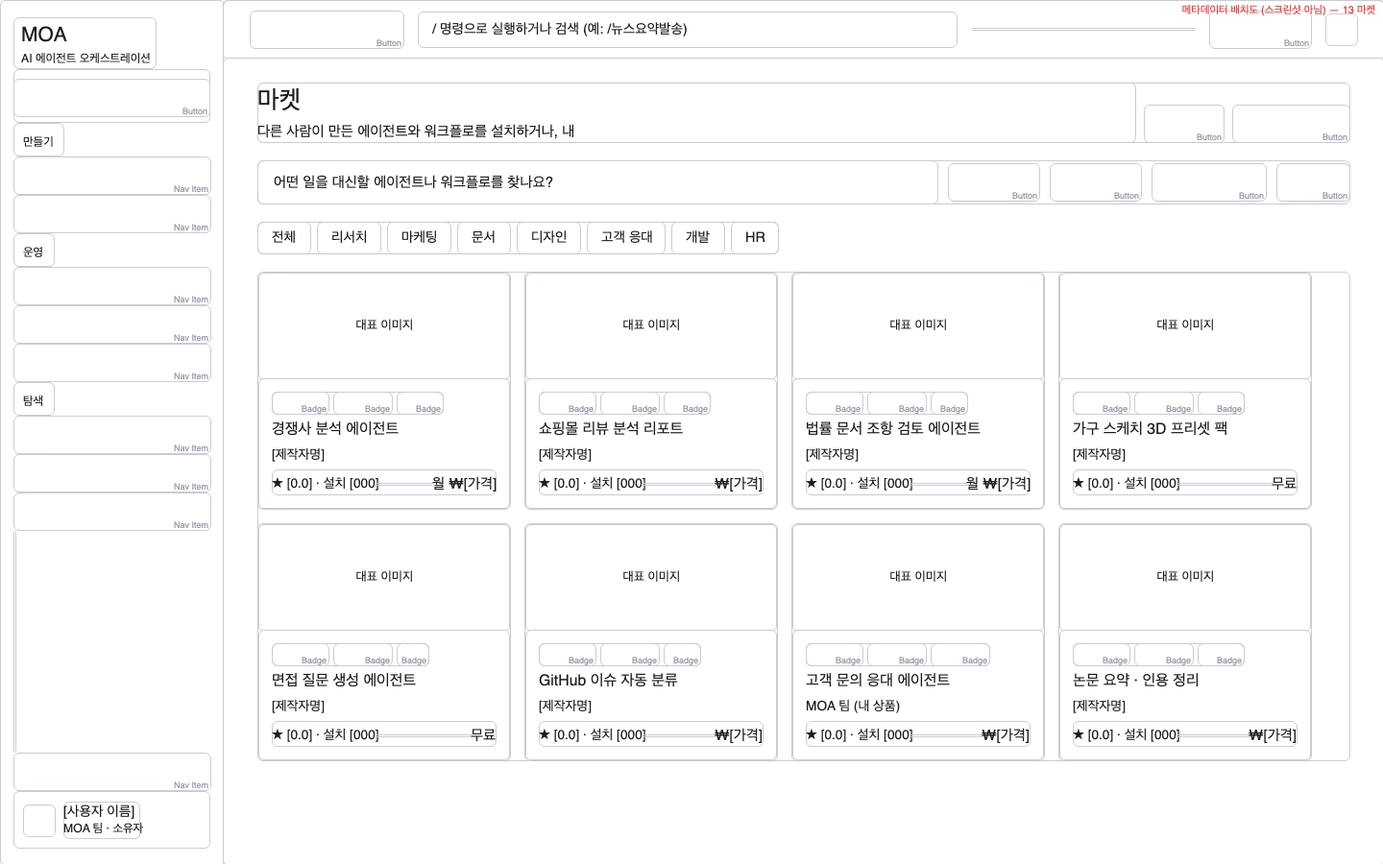
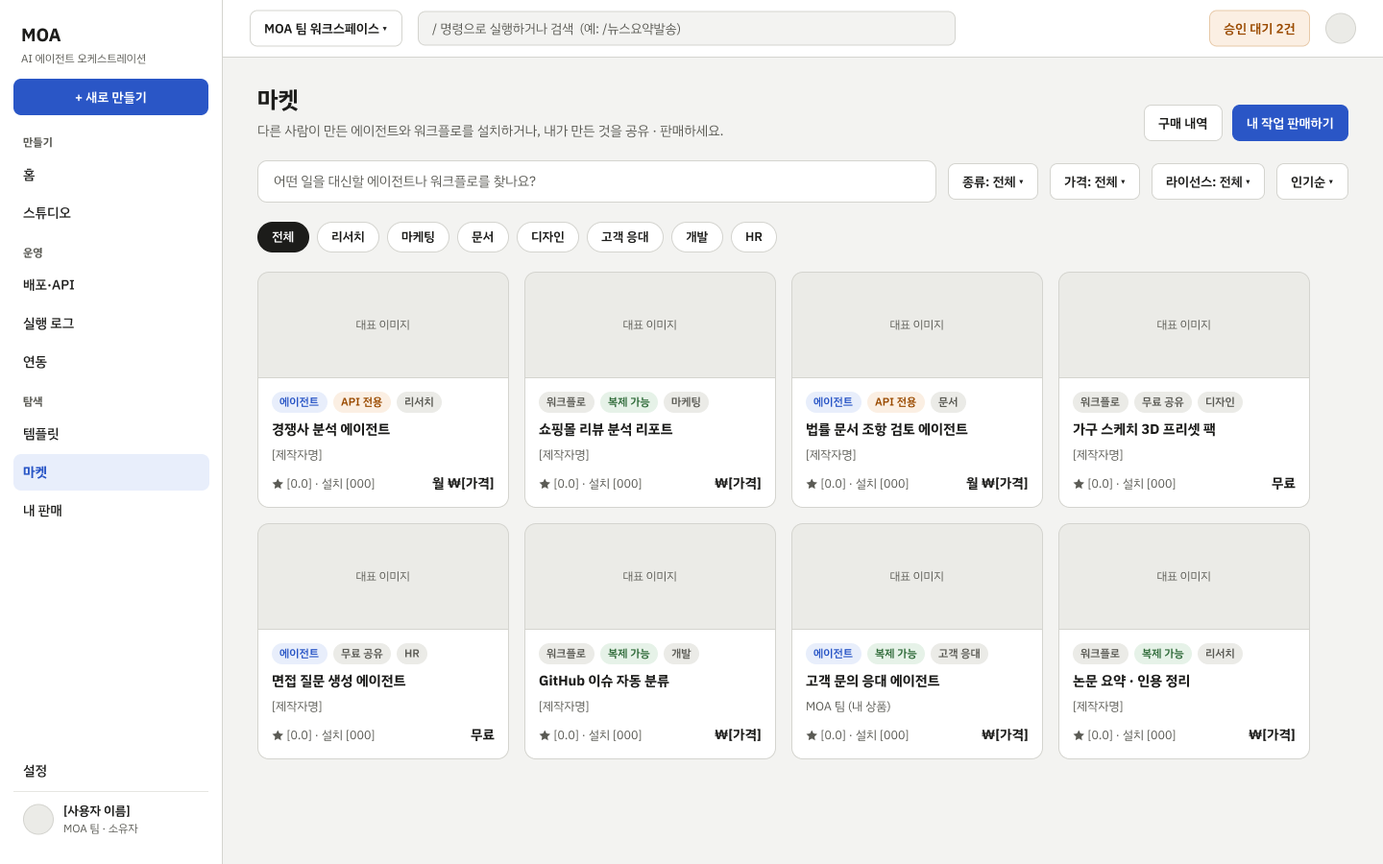
fix(market): Figma 13·15 스크린샷에 맞춰 마켓 목록·판매 등록 수정
호출 한도가 풀려 남은 프레임(13 마켓, 15 판매 등록, 컴포넌트)의
스크린샷을 받아 docs/figma 저장본을 채웠다. 그에 맞춰 고친 점:
- 마켓 헤더 버튼(구매 내역 · 내 작업 판매하기), 필터 4개(종류·가격·
  라이선스·정렬), 카드 배지 순서와 라이선스 배지(API 전용·복제 가능·
  무료 공유)
- 판매 등록 단계 표시(파란 원 ✓), 가격 라벨, 버튼 문구, 보안 점검 배지
  4종. 목 보안 검사에 개인정보(이메일·전화) 탐지(info) 추가
- 배지를 Figma 컴포넌트처럼 알약 모양으로
- 무료 공유 옵션 상자 배치 깨짐 수정

diff --git a/src/features/market/sell-steps.tsx b/src/features/market/sell-steps.tsx
@@ -82,7 +82,7 @@ export function StepInfo({ form, set, errors }: { form: ListingForm; set: Set; e
 }
 
 const SEV = { info: { icon: Info, cls: 'text-primary', v: 'blue' as const, t: '자동 정리' }, warn: { icon: AlertTriangle, cls: 'text-warning', v: 'orange' as const, t: '확인 권장' }, error: { icon: AlertCircle, cls: 'text-danger', v: 'red' as const, t: '등록 불가' } };
-const RULE: Record<string, string> = { credential_ref: '자격증명 참조', anthropic_key: 'Anthropic 키', openai_key: 'OpenAI 키', aws_key: 'AWS 키', jwt: 'JWT', pem: '개인 키(PEM)', slack_token: 'Slack 토큰', internal_url: '내부 주소', high_entropy: '비밀값 의심' };
+const RULE: Record<string, string> = { credential_ref: '자격증명 참조', anthropic_key: 'Anthropic 키', openai_key: 'OpenAI 키', aws_key: 'AWS 키', jwt: 'JWT', pem: '개인 키(PEM)', slack_token: 'Slack 토큰', internal_url: '내부 주소', high_entropy: '비밀값 의심', pii: '개인정보 의심' };
 
 export function StepScan({ findings, pending }: { findings: ScanFinding[] | null; pending: boolean }) {
   if (pending || !findings) return <p className="text-muted flex items-center gap-2 text-sm"><Loader2 className="size-4 animate-spin" aria-hidden /> 에이전트와 워크플로를 검사하는 중…</p>;
@@ -115,22 +115,22 @@ export function StepPrice({ form, set, errors, canApi }: { form: ListingForm; se
   const box = (on: boolean) => cn('rounded-lg border p-4', on && 'border-primary bg-primary-soft/40');
   return (
     <div className="space-y-3">
-      <label className={box(form.free)}>
-        <span className="flex items-center gap-2 font-semibold"><Checkbox checked={form.free} onCheckedChange={(v) => set({ free: v === true, sell_clone: v === true ? false : form.sell_clone })} /> 무료 공유</span>
-        <span className="text-muted mt-1 block text-sm">누구나 무료로 복제할 수 있습니다.</span>
-      </label>
+      <div className={box(form.free)}>
+        <label className="flex items-center gap-2 font-semibold"><Checkbox checked={form.free} onCheckedChange={(v) => set({ free: v === true, sell_clone: v === true ? false : form.sell_clone })} /> 무료 공유</label>
+        <p className="text-muted mt-1 text-sm">누구나 무료로 복제할 수 있습니다.</p>
+      </div>
       <div className={box(form.sell_clone)}>
         <label className="flex items-center gap-2 font-semibold"><Checkbox checked={form.sell_clone} disabled={form.free} onCheckedChange={(v) => set({ sell_clone: v === true })} /> 복제 라이선스 판매</label>
-        <p className="text-muted mt-1 text-sm">구매자가 에이전트와 연결된 워크플로를 복제해 수정할 수 있습니다. 재판매는 불가합니다.</p>
-        {form.sell_clone ? <div className="mt-3 max-w-60 space-y-1"><Label htmlFor="price-clone">가격(원)</Label><Input id="price-clone" type="number" min={0} step={1000} value={form.price_clone_krw} onChange={(e) => set({ price_clone_krw: Number(e.target.value) })} /></div> : null}
+        <p className="text-muted mt-1 text-sm">구매자가 에이전트와 연결된 워크플로를 복제해 수정할 수 있습니다. 재판매 금지.</p>
+        {form.sell_clone ? <div className="mt-3 max-w-60 space-y-1"><Label htmlFor="price-clone">가격 (1회, 원)</Label><Input id="price-clone" type="number" min={0} step={1000} value={form.price_clone_krw} onChange={(e) => set({ price_clone_krw: Number(e.target.value) })} /></div> : null}
       </div>
       <div className={box(form.sell_api)}>
         <label className="flex items-center gap-2 font-semibold"><Checkbox checked={form.sell_api} disabled={!canApi} onCheckedChange={(v) => set({ sell_api: v === true })} /> API 사용 구독</label>
-        <p className="text-muted mt-1 text-sm">내 환경에서 실행하고 구매자는 호출만 합니다. 모델 · 프롬프트는 공개되지 않습니다.{!canApi ? ' (먼저 이 에이전트를 배포해야 고를 수 있어요)' : ''}</p>
-        {form.sell_api ? <div className="mt-3 max-w-60 space-y-1"><Label htmlFor="price-api">월 가격(원)</Label><Input id="price-api" type="number" min={0} step={1000} value={form.price_api_month_krw} onChange={(e) => set({ price_api_month_krw: Number(e.target.value) })} /></div> : null}
+        <p className="text-muted mt-1 text-sm">내 환경에서 실행하고 구매자는 호출만 합니다. 모델 · 프롬프트 · 워크플로 구성은 공개되지 않습니다.{!canApi ? ' (먼저 이 에이전트를 배포해야 고를 수 있어요)' : ''}</p>
+        {form.sell_api ? <div className="mt-3 max-w-60 space-y-1"><Label htmlFor="price-api">월 구독료(원)</Label><Input id="price-api" type="number" min={0} step={1000} value={form.price_api_month_krw} onChange={(e) => set({ price_api_month_krw: Number(e.target.value) })} /></div> : null}
       </div>
       <Err m={errors.free} />
-      <p className="text-muted text-xs">플랫폼 수수료 20% · 정산은 매월 10일 · 7일 이내 실행 이력이 없으면 환불됩니다.</p>
+      <p className="text-muted text-xs">플랫폼 수수료 20% · 정산은 매월 10일 · 실행 비용은 API 구독일 때 판매자 부담</p>
     </div>
   );
 }

diff --git a/src/app/(app)/market/_components/market-view.tsx b/src/app/(app)/market/_components/market-view.tsx
@@ -19,7 +19,7 @@ import { Select, SelectContent, SelectItem, SelectTrigger, SelectValue } from '@
 import { CardGridSkeleton, EmptyState, ErrorState } from '@/shared/ui/states';
 
 export function MarketView() {
-  const [s, set] = useSearchState({ q: '', category: 'all', sort: 'popular', kind: 'all', license: 'all' });
+  const [s, set] = useSearchState({ q: '', category: 'all', sort: 'popular', kind: 'all', price: 'all', license: 'all' });
   const [q, setQ] = useState(s.q);
   const dq = useDebounced(q, 300);
   useEffect(() => {
@@ -27,7 +27,7 @@ export function MarketView() {
     // eslint-disable-next-line react-hooks/exhaustive-deps
   }, [dq]);
   const { can } = useCurrentWorkspace();
-  const p = useProducts({ q: s.q || undefined, category: s.category === 'all' ? undefined : s.category, sort: s.sort, kind: s.kind === 'all' ? undefined : (s.kind as 'agent' | 'workflow'), license: s.license === 'all' ? undefined : s.license });
+  const p = useProducts({ q: s.q || undefined, category: s.category === 'all' ? undefined : s.category, sort: s.sort, kind: s.kind === 'all' ? undefined : (s.kind as 'agent' | 'workflow'), license: s.license === 'all' ? undefined : s.license, price: s.price === 'all' ? undefined : (s.price as 'free' | 'paid') });
   const { ref, inView } = useInView<HTMLDivElement>();
   useEffect(() => {
     if (inView && p.hasNextPage && !p.isFetchingNextPage) void p.fetchNextPage();
@@ -47,9 +47,9 @@ export function MarketView() {
         description="다른 사람이 만든 에이전트와 워크플로를 설치하거나, 내 것을 공유·판매합니다."
         actions={
           <>
-            <Button variant="outline" asChild><Link href="/market/purchases">내 구매</Link></Button>
+            <Button variant="outline" asChild><Link href="/market/purchases">구매 내역</Link></Button>
             <Guarded allowed={can('market')} reason={copy.common.adminOnly}>
-              <Button asChild={can('market')}>{can('market') ? <Link href="/market/sell">+ 판매 등록</Link> : <span>+ 판매 등록</span>}</Button>
+              <Button asChild={can('market')}>{can('market') ? <Link href="/market/sell">내 작업 판매하기</Link> : <span>내 작업 판매하기</span>}</Button>
             </Guarded>
           </>
         }
@@ -60,7 +60,8 @@ export function MarketView() {
           <Input value={q} onChange={(e) => setQ(e.target.value)} placeholder="어떤 일을 대신할 에이전트나 워크플로를 찾나요?" aria-label="마켓 검색" className="h-10 pl-9" />
         </div>
         {sel(s.kind, (v) => set({ kind: v }), [['all', '종류: 전체'], ['agent', '에이전트'], ['workflow', '워크플로']], '종류')}
-        {sel(s.license, (v) => set({ license: v }), [['all', '가격: 전체'], ['free', '무료'], ['clone', '복제 판매'], ['api_sub', 'API 구독']], '가격')}
+        {sel(s.price, (v) => set({ price: v }), [['all', '가격: 전체'], ['free', '무료'], ['paid', '유료']], '가격')}
+        {sel(s.license, (v) => set({ license: v }), [['all', '라이선스: 전체'], ['clone', '복제 가능'], ['free_share', '무료 공유'], ['api_sub', 'API 전용']], '라이선스')}
         {sel(s.sort, (v) => set({ sort: v }), MARKET_SORTS.map((x) => [x.id, x.label]), '정렬')}
       </div>
       <ChipGroup label="카테고리" value={s.category} onChange={(v) => set({ category: v })} options={[{ value: 'all', label: '전체' }, ...MARKET_CATEGORIES.map((c) => ({ value: c.id as string, label: c.label }))]} />
@@ -69,7 +70,7 @@ export function MarketView() {
       ) : p.isError ? (
         <ErrorState error={p.error} onRetry={() => void p.refetch()} />
       ) : p.items.length === 0 ? (
-        <EmptyState title="찾는 상품이 없어요" description="검색어나 카테고리를 바꿔 보세요." action={<Button variant="outline" onClick={() => { setQ(''); set({ q: '', category: 'all', kind: 'all', license: 'all' }); }}>필터 초기화</Button>} />
+        <EmptyState title="찾는 상품이 없어요" description="검색어나 카테고리를 바꿔 보세요." action={<Button variant="outline" onClick={() => { setQ(''); set({ q: '', category: 'all', kind: 'all', price: 'all', license: 'all' }); }}>필터 초기화</Button>} />
       ) : (
         <div className="grid grid-cols-1 gap-4 md:grid-cols-2 xl:grid-cols-4">{p.items.map((x) => <ProductCard key={x.id} p={x} />)}</div>
       )}

diff --git a/src/features/market/sell-wizard.tsx b/src/features/market/sell-wizard.tsx
@@ -90,9 +90,9 @@ export function SellWizard({ initialAgentId }: { initialAgentId?: string | null 
     <div className="space-y-5">
       <ol className="grid grid-cols-5 gap-2" aria-label="게시 단계">
         {STEPS.map((t, i) => (
-          <li key={t} aria-current={i === step ? 'step' : undefined} className={cn('bg-card flex items-center gap-2 rounded-lg border px-3 py-2.5 text-sm', i === step && 'border-primary')}>
-            <span className={cn('flex size-6 items-center justify-center rounded border text-xs font-semibold', i < step && 'bg-foreground text-background', i === step && 'border-primary text-primary')}>{i < step ? <Check className="size-3.5" aria-label="완료" /> : i + 1}</span>
-            <span className={i === step ? 'font-semibold' : 'text-muted'}>{t}</span>
+          <li key={t} aria-current={i === step ? 'step' : undefined} className={cn('bg-card flex items-center gap-2 rounded-lg border px-3 py-2.5 text-sm', i === step && 'border-primary bg-primary-soft')}>
+            <span className={cn('flex size-6 items-center justify-center rounded-full text-xs font-semibold', i <= step ? 'bg-primary text-primary-foreground' : 'bg-surface-strong text-muted')}>{i < step ? <Check className="size-3.5" aria-label="완료" /> : i + 1}</span>
+            <span className={i === step ? 'text-primary font-semibold' : i < step ? 'font-medium' : 'text-muted'}>{t}</span>
           </li>
         ))}
       </ol>
@@ -109,9 +109,9 @@ export function SellWizard({ initialAgentId }: { initialAgentId?: string | null 
             </div>
           )}
           <div className="mt-6 flex justify-between border-t pt-4">
-            <Button variant="outline" onClick={() => setStep((s) => Math.max(0, s - 1))} disabled={step === 0}>이전</Button>
+            <Button variant="outline" onClick={() => setStep((s) => Math.max(0, s - 1))} disabled={step === 0}>← 이전</Button>
             {step === 2 ? <Button variant="ghost" onClick={runScan} disabled={scan.isPending}>다시 검사</Button> : null}
-            {step < 4 ? <Button onClick={next} disabled={step === 2 && (scan.isPending || !findings)} data-testid="sell-next">다음</Button> : <Button onClick={submit} disabled={create.isPending} data-testid="sell-submit">{create.isPending ? <Loader2 className="animate-spin" aria-hidden /> : null}검수 요청</Button>}
+            {step < 4 ? <Button onClick={next} disabled={step === 2 && (scan.isPending || !findings)} data-testid="sell-next">다음 →</Button> : <Button onClick={submit} disabled={create.isPending} data-testid="sell-submit">{create.isPending ? <Loader2 className="animate-spin" aria-hidden /> : null}검수 요청</Button>}
           </div>
         </SectionCard>
         <SectionCard title="게시 요약">
@@ -128,9 +128,12 @@ export function SellWizard({ initialAgentId }: { initialAgentId?: string | null 
               <div className="flex flex-wrap gap-1.5">
                 {findings === null ? <Badge variant="gray">검사 전</Badge> : (
                   <>
-                    <Badge variant="green">자격증명 제거됨</Badge>
-                    <Badge variant={findings.some((f) => f.severity === 'error') ? 'red' : 'green'}>{findings.some((f) => f.severity === 'error') ? '비밀값 발견' : '비밀값 없음'}</Badge>
-                    <Badge variant={findings.some((f) => f.rule === 'internal_url') ? 'orange' : 'green'}>{findings.some((f) => f.rule === 'internal_url') ? '내부 URL 있음' : '내부 URL 없음'}</Badge>
+                    <Badge variant="green">자격증명 {Math.max(1, findings.filter((f) => f.rule === 'credential_ref').length)}건 분리</Badge>
+                    <Badge variant="green">API 키 제외</Badge>
+                    <Badge variant="green">장기 기억 제외</Badge>
+                    {findings.some((f) => f.rule === 'pii') ? <Badge variant="green">개인정보 의심 {findings.filter((f) => f.rule === 'pii').length}건 수정됨</Badge> : null}
+                    {findings.some((f) => f.severity === 'error') ? <Badge variant="red">비밀값 {findings.filter((f) => f.severity === 'error').length}건 · 등록 불가</Badge> : null}
+                    {findings.some((f) => f.rule === 'internal_url') ? <Badge variant="orange">내부 URL 확인 필요</Badge> : null}
                   </>
                 )}
               </div>

diff --git a/src/mocks/fixtures/index.ts b/src/mocks/fixtures/index.ts
@@ -124,7 +124,7 @@ export function seed(): Db {
   const agents: DbAgent[] = [
     { ...agentBase, id: A(1), name: '디자인 리서치 에이전트', description: '스케치를 받아 조사 · 컨셉 정리 · 3D 시각화까지 돕습니다', model: 'claude-sonnet-4', fallback_models: ['claude-haiku-4'], system_prompt: '너는 제품 디자인팀의 리서치 담당이다. 사용자의 스케치와 설명을 받아 유사 제품을 조사하고, 디자인 가이드에 맞춰 컨셉을 정리한 뒤 필요하면 3D 시각화 워크플로를 실행한다.', temperature: 0.7, memory_enabled: true, memory_scopes: ['short', 'long'], primary_workflow_id: wfId.concept3d!, created_at: at(45 * DAY), updated_at: at(10 * MIN), icon: '🎨' },
     { ...agentBase, id: A(2), name: '사내 문서 Q&A 에이전트', description: '사내 규정 문서를 근거로 답합니다', model: 'claude-haiku-4', fallback_models: [], system_prompt: '너는 사내 규정 안내 담당이다. 반드시 규정 문서에 근거해 답하고 출처를 붙인다.', temperature: 0.2, memory_enabled: true, memory_scopes: ['short', 'long'], primary_workflow_id: wfId.docsqa!, created_at: at(80 * DAY), updated_at: at(3 * MIN), icon: '📚' },
-    { ...agentBase, id: A(3), name: '고객 문의 응대 에이전트', description: '메일 문의를 분류하고 승인 후 답장합니다', model: 'claude-sonnet-4', fallback_models: ['gpt-4o'], system_prompt: '너는 친절한 고객지원 담당자다. 환불·결제 관련 답장은 반드시 승인을 받는다.', temperature: 0.5, memory_enabled: true, memory_scopes: ['short', 'episodic'], primary_workflow_id: wfId.triage!, created_at: at(70 * DAY), updated_at: at(DAY), icon: '💬' },
+    { ...agentBase, id: A(3), name: '고객 문의 응대 에이전트', description: '메일 문의를 분류하고 승인 후 답장합니다', model: 'claude-sonnet-4', fallback_models: ['gpt-4o'], system_prompt: '너는 친절한 고객지원 담당자다. 환불·결제 관련 답장은 반드시 승인을 받는다. 답이 어려우면 cs-lead@moa.dev로 넘긴다.', temperature: 0.5, memory_enabled: true, memory_scopes: ['short', 'episodic'], primary_workflow_id: wfId.triage!, created_at: at(70 * DAY), updated_at: at(DAY), icon: '💬' },
     { ...agentBase, id: A(4), name: '경쟁사 분석 에이전트', description: '마켓에서 구매한 API 전용 에이전트', model: 'claude-sonnet-4', fallback_models: [], system_prompt: '', temperature: 0.7, memory_enabled: false, memory_scopes: [], primary_workflow_id: null, created_at: at(2 * DAY), updated_at: at(2 * DAY), icon: '🔭', origin_license_id: fid('l', 1), api_only: true },
     { ...agentBase, id: A(5), name: '회의록 정리 에이전트', description: '회의록을 요약하고 할 일을 Notion에 등록합니다', model: 'claude-sonnet-4', fallback_models: [], system_prompt: '회의록을 요약하고 담당자별 할 일을 뽑아 Notion에 등록한다.', temperature: 0.4, memory_enabled: false, memory_scopes: [], primary_workflow_id: wfId.minutes!, created_at: at(30 * DAY), updated_at: at(5 * DAY), icon: '📝' },
     { ...agentBase, id: A(6), name: '뉴스 브리핑 에이전트', description: '관심 주제의 뉴스를 요약해 알려 줍니다', model: 'claude-haiku-4', fallback_models: ['gpt-4o-mini'], system_prompt: '관심 주제의 최신 뉴스를 찾아 5줄로 요약한다. 메일 발송 전에는 승인을 받는다.', temperature: 0.6, memory_enabled: true, memory_scopes: ['short'], primary_workflow_id: wfId.news!, created_at: at(25 * DAY), updated_at: at(2 * HOUR), icon: '📰' },

diff --git a/src/mocks/handlers/market.ts b/src/mocks/handlers/market.ts
@@ -15,6 +15,7 @@ const SECRET_RULES: [string, RegExp][] = [
   ['slack_token', /xox[baprs]-[A-Za-z0-9-]{10,}/],
 ];
 const INTERNAL_HOST = /(localhost|127\.0\.0\.1|10\.\d+\.\d+\.\d+|192\.168\.\d+\.\d+)/;
+const PII = [/01[016789]-?\d{3,4}-?\d{4}/, /[\w.+-]+@[\w-]+\.[\w.]+/];
 
 /** PublishSanitizer.scan (design.md 2.4.3) */
 export function scanBundle(defn: unknown): ScanFinding[] {
@@ -35,6 +36,10 @@ export function scanBundle(defn: unknown): ScanFinding[] {
         if (m) findings.push({ path, rule, severity: 'error', excerpt: `${m[0].slice(0, 6)}••••${m[0].slice(-3)}` });
       }
       if (INTERNAL_HOST.test(node)) findings.push({ path, rule: 'internal_url', severity: 'warn', excerpt: node.slice(0, 60) });
+      for (const rx of PII) {
+        const m = rx.exec(node);
+        if (m) findings.push({ path, rule: 'pii', severity: 'info', excerpt: `${m[0].slice(0, 3)}••• (게시본에서 가림)` });
+      }
     }
   };
   walk(defn, '$');
@@ -72,12 +77,16 @@ export const marketHandlers = [
     const category = sp.get('category');
     const kind = sp.get('kind');
     const license = sp.get('license');
+    const price = sp.get('price');
     let items = db.market_products.filter((p) => p.status === 'published').map((p) => productView(p, ctx.wsId));
     if (q) items = items.filter((p) => `${p.title} ${p.summary} ${p.tags.join(' ')}`.toLowerCase().includes(q));
     if (category) items = items.filter((p) => p.category === category);
     if (kind) items = items.filter((p) => p.kind === kind);
-    if (license === 'free') items = items.filter((p) => p.price_clone_krw === 0);
-    else if (license) items = items.filter((p) => p.license_types.includes(license as 'clone'));
+    if (price === 'free') items = items.filter((p) => p.price_clone_krw === 0);
+    if (price === 'paid') items = items.filter((p) => p.price_clone_krw !== 0 || p.license_types.includes('api_sub'));
+    if (license === 'clone') items = items.filter((p) => p.license_types.includes('clone') && p.price_clone_krw !== 0);
+    if (license === 'free_share') items = items.filter((p) => p.price_clone_krw === 0);
+    if (license === 'api_sub') items = items.filter((p) => p.license_types.includes('api_sub'));
     return json(paginate(sortProducts(items, sp.get('sort') ?? 'popular'), url, 24));
   }),
   http.get(`${API}/market/products/:id`, ({ request, params }) => {

diff --git a/src/features/market/product-card.tsx b/src/features/market/product-card.tsx
@@ -1,5 +1,5 @@
 import Link from 'next/link';
-import { LICENSE_LABEL, marketCategoryLabel, type Product } from '@/entities/product';
+import { marketCategoryLabel, type Product } from '@/entities/product';
 import { formatKrw, formatNumber } from '@/shared/lib/format';
 import { Badge } from '@/shared/ui/badge';
 import { Stars } from './rating';
@@ -7,6 +7,13 @@ import { Stars } from './rating';
 export function priceText(p: Pick<Product, 'priceCloneKrw' | 'priceApiMonthKrw' | 'licenseTypes'>) {
   if (p.licenseTypes.includes('api_sub') && p.priceApiMonthKrw !== null) return `월 ${formatKrw(p.priceApiMonthKrw)}`;
   return formatKrw(p.priceCloneKrw ?? 0);
+}
+
+/** Figma 13 라이선스 배지: API 전용(주황) · 복제 가능(초록) · 무료 공유(회색) */
+export function licenseBadge(p: Pick<Product, 'licenseTypes' | 'priceCloneKrw'>) {
+  if (!p.licenseTypes.includes('clone')) return <Badge variant="orange">API 전용</Badge>;
+  if (p.priceCloneKrw === 0) return <Badge variant="gray">무료 공유</Badge>;
+  return <Badge variant="green">복제 가능</Badge>;
 }
 
 export function ProductCard({ p }: { p: Product }) {
@@ -19,8 +26,8 @@ export function ProductCard({ p }: { p: Product }) {
         <div className="flex flex-1 flex-col p-4">
           <div className="flex flex-wrap gap-1">
             <Badge variant={p.kind === 'agent' ? 'blue' : 'gray'}>{p.kind === 'agent' ? '에이전트' : '워크플로'}</Badge>
+            {licenseBadge(p)}
             <Badge variant="gray">{marketCategoryLabel(p.category)}</Badge>
-            {p.licenseTypes.length === 1 && p.licenseTypes[0] === 'api_sub' ? <Badge variant="orange">API 전용</Badge> : p.priceCloneKrw === 0 ? <Badge variant="green">무료</Badge> : <Badge variant="gray">{LICENSE_LABEL[p.licenseTypes[0]!].replace(' 라이선스', '')}</Badge>}
             {p.ownedLicense ? <Badge variant="dark">보유 중</Badge> : null}
           </div>
           <h3 className="mt-2 font-bold">{p.title}</h3>

diff --git a/src/shared/ui/badge.tsx b/src/shared/ui/badge.tsx
@@ -4,7 +4,7 @@ import { cn } from "@/shared/lib/utils"
 import { Slot } from "radix-ui"
 
 const badgeVariants = cva(
-  "inline-flex w-fit shrink-0 items-center justify-center gap-1 overflow-hidden rounded-md border border-transparent px-2 py-0.5 text-xs font-medium whitespace-nowrap transition-[color,box-shadow] focus-visible:border-ring focus-visible:ring-[3px] focus-visible:ring-ring/50 aria-invalid:border-destructive aria-invalid:ring-destructive/20 dark:aria-invalid:ring-destructive/40 [&>svg]:pointer-events-none [&>svg]:size-3",
+  "inline-flex w-fit shrink-0 items-center justify-center gap-1 overflow-hidden rounded-full border border-transparent px-2 py-0.5 text-xs font-medium whitespace-nowrap transition-[color,box-shadow] focus-visible:border-ring focus-visible:ring-[3px] focus-visible:ring-ring/50 aria-invalid:border-destructive aria-invalid:ring-destructive/20 dark:aria-invalid:ring-destructive/40 [&>svg]:pointer-events-none [&>svg]:size-3",
   {
     variants: {
       variant: {

diff --git a/src/entities/product/api.ts b/src/entities/product/api.ts
@@ -21,6 +21,7 @@ export interface ProductParams {
   sort?: string;
   kind?: 'agent' | 'workflow';
   license?: string;
+  price?: 'free' | 'paid';
 }
 
 export const productKeys = {

diff --git a/docs/figma/INDEX.md b/docs/figma/INDEX.md
@@ -5,7 +5,7 @@
 
 | # | 화면 이름 | 프레임 node-id | 스크린샷 | 노트 | 구현 라우트 |
 |---|---|---|---|---|---|
-| — | 컴포넌트(Button·Badge·Nav Item·Field) | `2:40` | 없음(한도) | [00-common.md](00-common.md) | — |
+| — | 컴포넌트(Button·Badge·Nav Item·Field) | `2:40` | [00-components.png](00-components.png) | [00-common.md](00-common.md) | — |
 | 01 | 홈 | `3:134` | [01-home.png](01-home.png) | [01-home.md](01-home.md) | `/home` |
 | 02 | 스튜디오 — 에이전트 | `3:327` | [02-studio-agents.png](02-studio-agents.png) | [02-studio-agents.md](02-studio-agents.md) | `/studio?tab=agents` |
 | 03 | 스튜디오 — 워크플로 | `4:240` | [03-studio-workflows.png](03-studio-workflows.png) | [03-studio-workflows.md](03-studio-workflows.md) | `/studio?tab=workflows` |
@@ -18,13 +18,13 @@
 | 10 | 실행 로그 | `6:665` | [10-runs.png](10-runs.png) | [10-runs.md](10-runs.md) | `/runs`, `/runs/[id]` |
 | 11 | 연동 | `6:851` | [11-integrations.png](11-integrations.png) | [11-integrations.md](11-integrations.md) | `/integrations` |
 | 12 | 템플릿 | `6:1144` | [12-templates.png](12-templates.png) | [12-templates.md](12-templates.md) | `/templates` |
-| 13 | 마켓 | `7:604` | [13-market.png](13-market.png) (메타데이터 배치도) | [13-market.md](13-market.md) | `/market` |
+| 13 | 마켓 | `7:604` | [13-market.png](13-market.png) | [13-market.md](13-market.md) | `/market` |
 | 14 | 마켓 상품 상세 | `7:750` | [14-market-detail.png](14-market-detail.png) | [14-market-detail.md](14-market-detail.md) | `/market/[id]` |
-| 15 | 마켓 판매 등록 | `7:888` | [15-market-sell.png](15-market-sell.png) (메타데이터 배치도) | [15-market-sell.md](15-market-sell.md) | `/market/sell` |
+| 15 | 마켓 판매 등록 | `7:888` | [15-market-sell.png](15-market-sell.png) | [15-market-sell.md](15-market-sell.md) | `/market/sell` |
 | 16 | 내 판매 | `7:1063` | [16-my-sales.png](16-my-sales.png) | [16-my-sales.md](16-my-sales.md) | `/market/sales` |
 | 17 | 설정 | `7:1308` | [17-settings.png](17-settings.png) | [17-settings.md](17-settings.md) | `/settings` |
 
 ## 추출 메모
-- `get_metadata`(페이지 전체) 1회 + `get_screenshot` 15회 후 Starter 플랜 호출 한도에 걸림.
-- **남은 프레임**: `7:604`(13 마켓), `7:888`(15 마켓 판매 등록), `2:40`(컴포넌트). 이 셋은 메타데이터(위치·크기·텍스트)만으로 노트를 썼고, 13·15는 메타데이터를 그대로 상자·글자로 그린 배치도 PNG를 만들어 두었다(색·아이콘·버튼 문구 일부는 추정).
+- 1차(2026-10-23 오전): `get_metadata` 1회 + `get_screenshot` 15회 후 Starter 플랜 호출 한도에 걸림. 13·15는 메타데이터 배치도로 임시 대체.
+- 2차(2026-10-23 오후, 한도 갱신 후): 남은 `7:604`, `7:888`, `2:40` 스크린샷을 받아 저장본을 모두 채웠다. 13·15 노트도 스크린샷 기준으로 고쳤다.
 - 화면 수는 17개로 설계서 0.1의 "와이어프레임 17개 화면"과 일치한다. 로그인·회원가입·실행 상세 단독 화면·오류/빈 상태는 Figma에 없다.

diff --git a/docs/figma/15-market-sell.md b/docs/figma/15-market-sell.md
@@ -1,12 +1,12 @@
-# 15 마켓 판매 등록 (7:888) — 스크린샷 없음(Figma 호출 한도). `15-market-sell.png`는 메타데이터로 그린 배치도
+# 15 마켓 판매 등록 (7:888) — `15-market-sell.png`
 라우트: `/market/sell`
 
-## 구성 (get_metadata 기준)
-- 헤더 "마켓에 게시하기" / "에이전트나 워크플로를 무료로 공유하거나 판매할 수 있어…"
-- **단계 표시 5단계**: ✓ 게시할 항목 · ✓ 소개 정보 · ✓ 보안 점검 · 4 가격 · 라이선스 · 5 미리보기 · 제출
-- 왼쪽 큰 카드 "4. 가격 · 라이선스": 체크 옵션 3개
+## 구성
+- 헤더 "마켓에 게시하기" / "에이전트나 워크플로를 무료로 공유하거나 판매할 수 있어요."
+- **단계 표시 5칸**: 끝난 단계는 파란 원 + ✓, 현재 단계는 파란 테두리·연파랑 배경·파란 글자 + 번호 원, 남은 단계는 회색 번호 원 — 게시할 항목 · 소개 정보 · 보안 점검 · 가격 · 라이선스 · 미리보기 · 제출
+- 왼쪽 카드 "4. 가격 · 라이선스": 체크 옵션 3개
   - 무료 공유 — "누구나 무료로 복제할 수 있습니다."
-  - ✓ 복제 라이선스 판매 — 설명 + 가격 Field
-  - ✓ API 사용 구독 — "내 환경에서 실행하고 구매자는 호출만 합니다. 모델 · …" + 월 가격 Field
-  - 하단 "플랫폼 수수료 [00]% · 정산은 매월 [00]일 · …", 버튼 2개(왼쪽 `이전`, 오른쪽 `다음` 추정)
-- 오른쪽 **게시 요약** 카드: 종류 배지 + "고객 문의 응대 에이전트", "함께 게시되는 구성"(모델, 스킬 2개, 연결된 워크플로 1개), **보안 점검** 배지 4개(추정: 자격증명 제거됨/비밀값 없음/내부 URL 없음/코드 검사 통과), "구매자는 메일 계정을 자신의 자격증명으로 다시 연결합니…"
+  - 복제 라이선스 판매 — "…복제해 수정할 수 있습니다. 재판매 금지." + "가격 (1회)" 입력
+  - API 사용 구독 — "내 환경에서 실행하고 구매자는 호출만 합니다. 모델 · 프롬프트 · 워크플로 구성은 공개되지 않습니다." + "월 구독료" 입력
+  - 하단 "플랫폼 수수료 [00]% · 정산은 매월 [00]일 · 실행 비용은 API 구독일 때 판매자 부담", 버튼 `← 이전`, `다음 →`
+- 오른쪽 **게시 요약**: 아이콘 + 종류 배지 + 이름, "함께 게시되는 구성"(모델·스킬·워크플로), **보안 점검** 초록 배지 4개 "자격증명 2건 분리 · API 키 제외 · 장기 기억 제외 · 개인정보 의심 1건 수정됨", "구매자는 메일 계정을 자신의 자격증명으로 다시 연결합니다."

diff --git a/docs/figma/13-market.md b/docs/figma/13-market.md
@@ -1,9 +1,8 @@
-# 13 마켓 (7:604) — 스크린샷 없음(Figma 호출 한도). `13-market.png`는 메타데이터로 그린 배치도
+# 13 마켓 (7:604) — `13-market.png`
 라우트: `/market`
 
-## 구성 (get_metadata 기준, 위치·텍스트만 확인됨 / 스타일은 다른 화면에서 추정)
-- 헤더 "마켓" / "다른 사람이 만든 에이전트와 워크플로를 설치하거나, 내 …"(잘림), 오른쪽 버튼 2개(82px·121px 폭 → **추정: `내 구매`, `+ 판매 등록`**)
-- 검색 줄: 입력 "어떤 일을 대신할 에이전트나 워크플로를 찾나요?" + 오른쪽 버튼 4개(94·94·118·75px → **추정: 정렬/필터 드롭다운: 종류, 가격, 인기순, 검색**)
+## 구성
+- 헤더 "마켓" / "다른 사람이 만든 에이전트와 워크플로를 설치하거나, 내가 만든 것을 공유 · 판매하세요." / 버튼 `구매 내역`(보조), `내 작업 판매하기`(주)
+- 검색 줄: 큰 입력 "어떤 일을 대신할 에이전트나 워크플로를 찾나요?" + 드롭다운 4개: 종류: 전체 · 가격: 전체 · 라이선스: 전체 · 인기순
 - 카테고리 칩: 전체 · 리서치 · 마케팅 · 문서 · 디자인 · 고객 응대 · 개발 · HR
-- **상품 카드(4열 × 2행)**: "대표 이미지" 영역, 배지 3개(추정: 에이전트/워크플로, 카테고리, 라이선스), 제목, 제작자명("MOA 팀 (내 상품)" 표시 가능), "★ [0.0] · 설치 [000]", 가격(무료 / ₩[가격] / 월 ₩[가격])
-  - 예: 경쟁사 분석 에이전트(월), 쇼핑몰 리뷰 분석 리포트, 법률 문서 조항 검토 에이전트(월), 가구 스케치 3D 프리셋 팩(무료), 면접 질문 생성 에이전트(무료), GitHub 이슈 자동 분류, 고객 문의 응대 에이전트(내 상품), 논문 요약 · 인용 정리
+- **상품 카드(4열 × 2행)**: "대표 이미지" 회색 영역, 배지 3개 = 종류(에이전트 파랑/워크플로 회색) · 라이선스(API 전용 주황 / 복제 가능 초록 / 무료 공유 회색) · 카테고리(회색), 제목, 제작자명("MOA 팀 (내 상품)"), "★ [0.0] · 설치 [000]", 오른쪽 가격(무료 / ₩[가격] / 월 ₩[가격])
